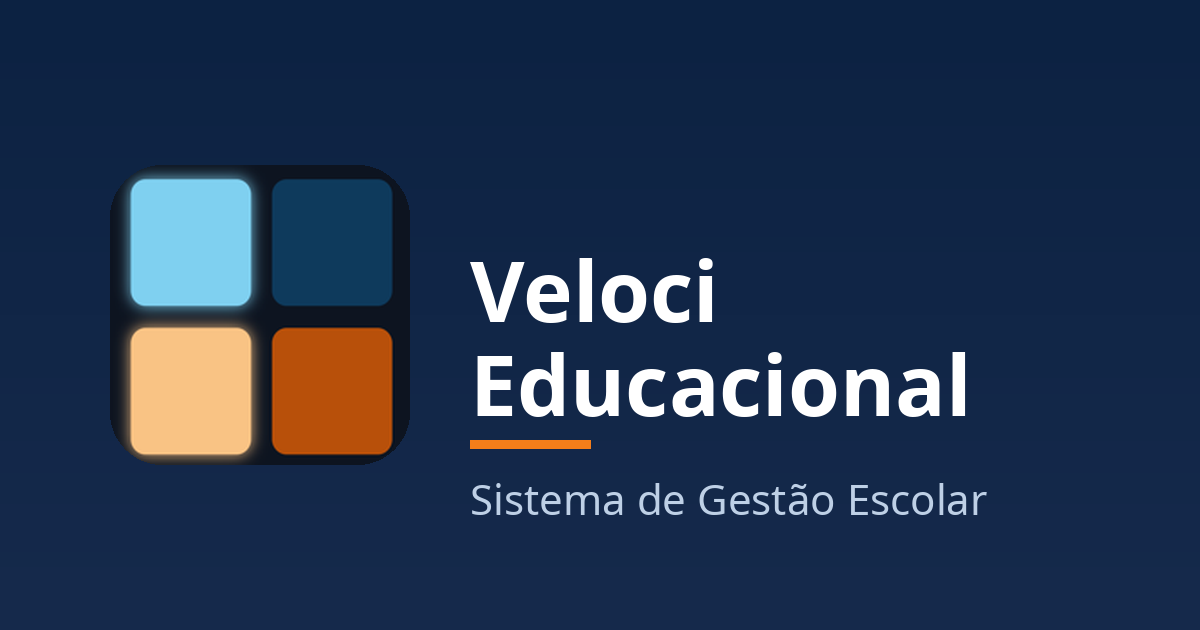
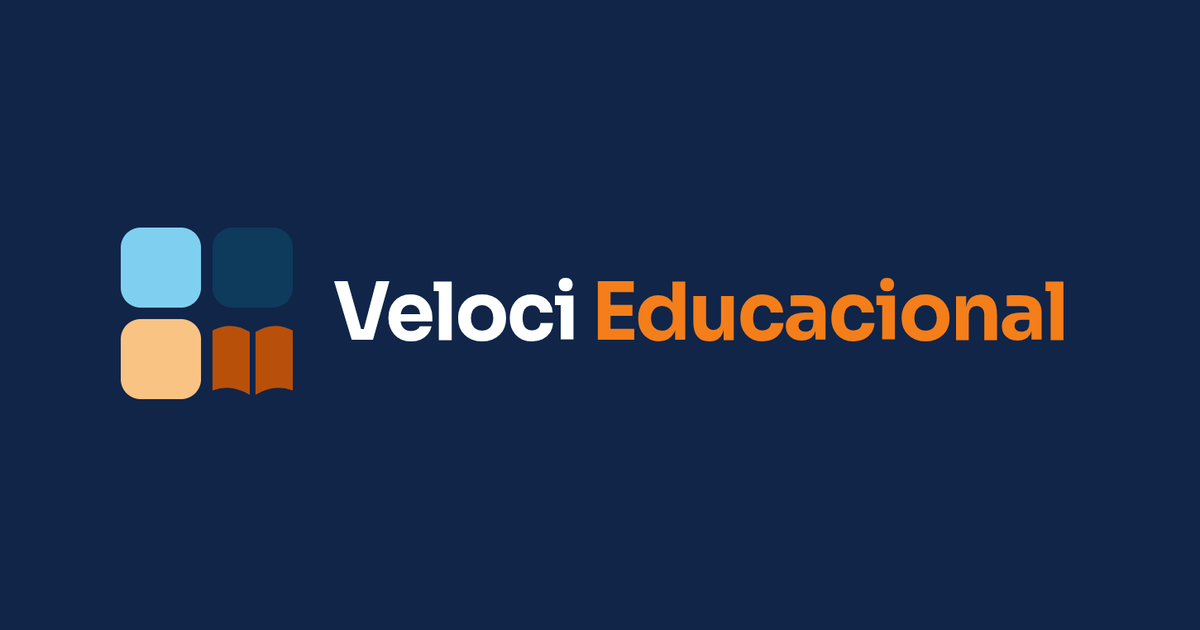
Aplica a nova identidade visual Veloci Educacional (símbolo com livro)
Troca favicon, og-image, ícone do login e fallback do logo na barra lateral.

Changed region(s): [[0.0925, 0.2413, 0.8942, 0.754], [0.4008, 0.754, 0.8325, 0.8143], [0.37, 0.6937, 0.4933, 0.7238]]

diff --git a/src/pages/Login.tsx b/src/pages/Login.tsx
@@ -4,7 +4,7 @@ import { Button } from "@/components/ui/button";
 import { Input } from "@/components/ui/input";
 import { Label } from "@/components/ui/label";
 import { Card, CardContent, CardDescription, CardHeader, CardTitle } from "@/components/ui/card";
-import { GraduationCap } from "lucide-react";
+import { VelociSymbol } from "@/components/VelociLogo";
 import { useToast } from "@/hooks/use-toast";
 
 /**
@@ -59,9 +59,9 @@ export default function Login() {
       <Card className="w-full max-w-md">
         <CardHeader className="text-center">
           <div className="flex justify-center mb-4">
-            <GraduationCap className="h-14 w-14 text-primary" />
+            <VelociSymbol className="h-14 w-14" />
           </div>
-          <CardTitle className="text-2xl">Veloci Educacional</CardTitle>
+          <CardTitle className="text-2xl">Veloci <span className="text-[#B8500A] dark:text-[#F47E1A]">Educacional</span></CardTitle>
           <CardDescription>Faça login para acessar o sistema</CardDescription>
         </CardHeader>
         <CardContent>

diff --git a/src/components/AppSidebar.tsx b/src/components/AppSidebar.tsx
@@ -35,6 +35,7 @@ import { useQuery } from "@tanstack/react-query";
 import { useSignedUrl } from "@/hooks/useSignedUrl";
 import { supabase } from "@/integrations/supabase/client";
 import { NavLink } from "@/components/NavLink";
+import { VelociSymbol } from "@/components/VelociLogo";
 import { useLocation } from "react-router-dom";
 import { usePermissoes } from "@/hooks/usePermissoes";
 import { ROTA_MODULO } from "@/lib/permissoesRotas";
@@ -167,7 +168,7 @@ export function AppSidebar() {
             {escolaLogo ? (
               <img src={escolaLogo} alt="Logo" className="h-full w-full object-cover" />
             ) : (
-              <GraduationCap className="h-5 w-5 text-sidebar-primary" />
+              <VelociSymbol className="h-6 w-6" />
             )}
           </div>
           {!collapsed && (

diff --git a/src/components/VelociLogo.tsx b/src/components/VelociLogo.tsx
@@ -1,0 +1,15 @@
+import { cn } from "@/lib/utils";
+
+export function VelociSymbol({ className }: { className?: string }) {
+  return (
+    <svg viewBox="0 0 624 624" role="img" aria-label="Veloci Educacional" className={cn("shrink-0", className)}>
+      <rect width="291" height="291" rx="75" fill="#7FD0F0" />
+      <rect x="333" width="291" height="291" rx="75" fill="#0E3A5C" />
+      <rect y="333" width="291" height="291" rx="75" fill="#F9C384" />
+      <g fill="#B8500A" transform="translate(333 333)">
+        <path d="M0 40Q63 12 135 48V274Q70 238 0 258Z" />
+        <path d="M156 48Q228 12 291 40V258Q221 238 156 274Z" />
+      </g>
+    </svg>
+  );
+}
